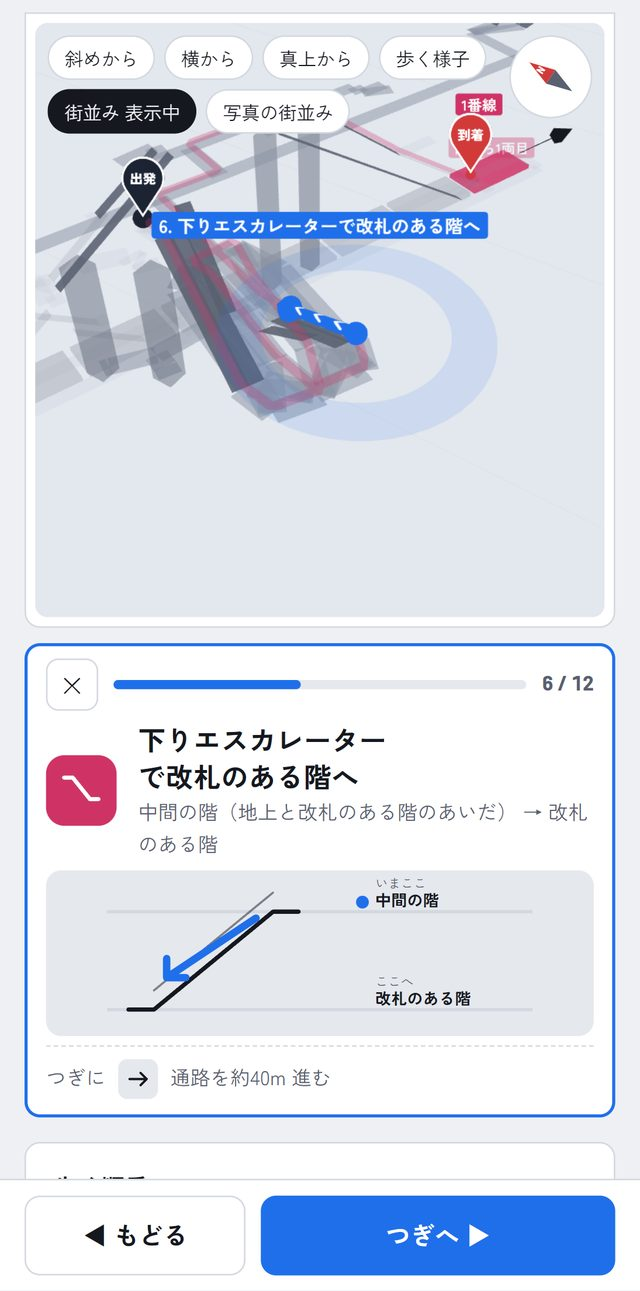
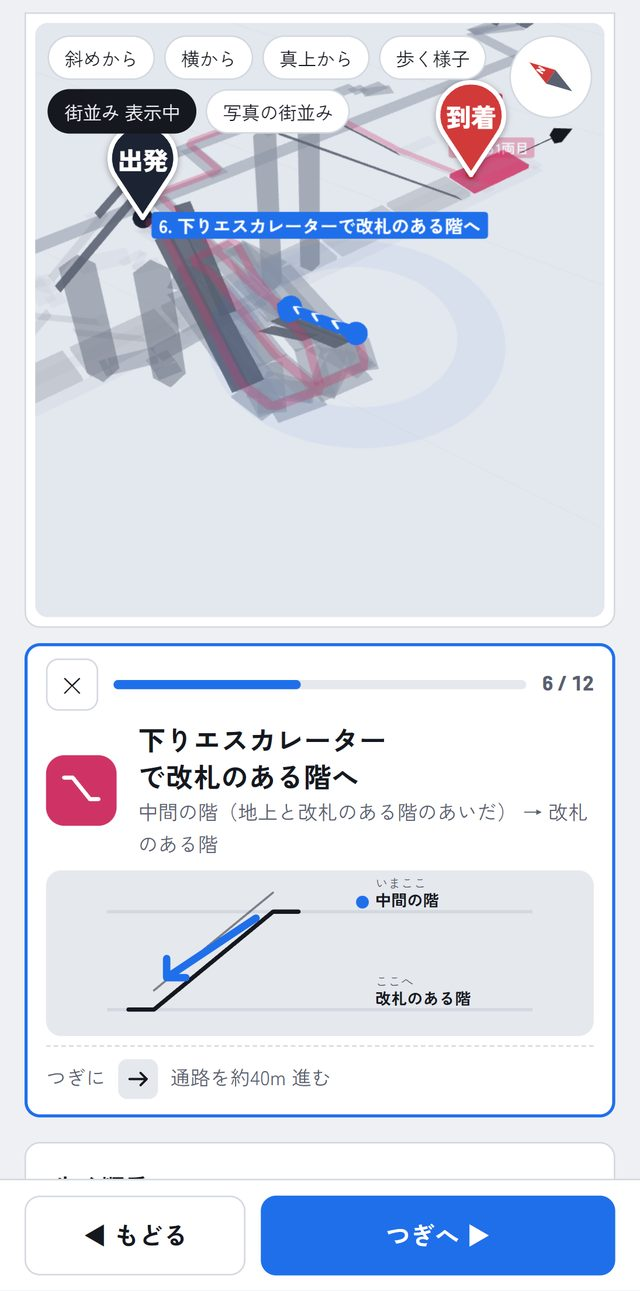
ピンを札より手前に、大きく。リアル視点ではさらに大きく

diff --git a/index.html b/index.html
@@ -146,6 +146,12 @@ select:focus-visible, button:focus-visible, input:focus-visible + span { outline
 .bname i { display: none; font-style: normal; font-size: 10px; color: var(--muted); }
 .bname.edge { opacity: .85; translate: -50% -50%; font-weight: 500; }
 .bname.edge i { display: inline-block; }
+/* 出発・到着のピン。名前の札より手前 */
+.pins { position: absolute; inset: 0; pointer-events: none; z-index: 1; overflow: hidden; }
+.pin3d { position: absolute; left: 0; top: 0; width: 52px; height: 65px; translate: -50% -97%; filter: drop-shadow(0 1px 2px rgba(0,0,0,.35)); }
+.pin3d svg { display: block; width: 100%; height: 100%; overflow: visible; }
+.pin3d text { fill: #ffffff; font-family: var(--f-body); font-weight: 900; font-size: 50px; }
+.pins.big .pin3d { width: 80px; height: 100px; }
 .cstatus { position: absolute; right: 8px; bottom: 8px; z-index: 2; font-size: 12px; padding: 4px 10px; border-radius: 999px;
   background: var(--surface); border: 1px solid var(--line); color: var(--muted); }
 .stage .fail { position: absolute; inset: 0; display: grid; place-items: center; padding: 16px; color: var(--muted); font-size: 13px; text-align: center; }
@@ -749,7 +755,7 @@ var View3D = (function () {
   var showUbld = false; // 駅によってはデータが多いので選んだときだけ読み込む
   try { showUbld = UBLD_ENABLED && localStorage.getItem('ekishirube.ubld') === '1'; } catch (e) {}
   var sel = null;       // いま選んでいる手順 { i, lo, hi, curve, ring }
-  var ripple = null, routePts = [], lastCull = 0, compass = null, lastHeading = null, names = [], nameBox = null;
+  var ripple = null, routePts = [], lastCull = 0, compass = null, lastHeading = null, names = [], nameBox = null, pins = [], pinBox = null;
   var renderer, scene, camera, controls, el, ro, started = false;
   var segTubes = [], netMeshes = [], routeTube, routeCurve, dot, edgeCum = [], edgeStep = [], total = 0;
   var home = null, platAxis = null, anim = null, play = null, onStep = null, lastFocus = null;
@@ -1508,20 +1514,23 @@ var View3D = (function () {
     return new THREE.Mesh(geo, new THREE.MeshBasicMaterial({ color: color, transparent: true, opacity: opacity, side: THREE.DoubleSide, depthWrite: false }));
   }
 
-  // 出発・到着のピン（画面上で一定の大きさ。下の先がその場所）
-  function pinSprite(text, color, px) {
-    var c = document.createElement('canvas'); c.width = 160; c.height = 200;
-    var x = c.getContext('2d');
-    function shape() { x.beginPath(); x.arc(80, 74, 66, Math.PI * 0.8, Math.PI * 0.2); x.lineTo(80, 194); x.closePath(); }
-    shape(); x.fillStyle = '#ffffff'; x.fill();
-    x.save(); x.translate(80, 80); x.scale(0.9, 0.9); x.translate(-80, -80); shape(); x.fillStyle = color; x.fill(); x.restore();
-    x.fillStyle = '#ffffff'; x.font = '900 40px "Zen Kaku Gothic New", "Hiragino Sans", "Yu Gothic", sans-serif';
-    x.textAlign = 'center'; x.textBaseline = 'middle'; x.fillText(text, 80, 76);
-    var tex = new THREE.CanvasTexture(c); tex.minFilter = THREE.LinearFilter;
-    var s = new THREE.Sprite(new THREE.SpriteMaterial({ map: tex, depthTest: false, transparent: true, sizeAttenuation: false }));
-    var hh = px / ((el && el.clientHeight) || 440) * 2 * Math.tan(THREE.MathUtils.degToRad(19));
-    s.scale.set(hh * 160 / 200, hh, 1); s.center.set(0.5, 0.02); s.renderOrder = 14;
-    return s;
+  // 出発・到着のピン（画面上で一定の大きさ。下の先がその場所）。建物の名前の札（HTML）より手前に出すため、立体図に重ねる HTML で描く
+  // （2026-10-08 利用者「ピンを札より手前に書いて」。前は立体の中の絵で、札の下に隠れていた）
+  function pinEl(text, color) {
+    var d = document.createElement('div'); d.className = 'pin3d';
+    d.innerHTML = '<svg viewBox="0 0 160 200" aria-hidden="true"><path d="M133.4 112.8 A66 66 0 1 0 26.6 112.8 L80 194 Z" fill="' + color +
+      '" stroke="#ffffff" stroke-width="9" stroke-linejoin="round"/><text x="80" y="76" text-anchor="middle" dominant-baseline="central">' + text + '</text></svg>';
+    d.setAttribute('aria-label', text);
+    return d;
+  }
+  function placePins() {
+    var W = el.clientWidth, H = el.clientHeight, v = new THREE.Vector3();
+    pinBox.classList.toggle('big', fpv); // リアル視点では大きく（2026-10-08 利用者「リアル視点で…ピンが小さく、文字が読みにくい」）
+    pins.forEach(function (n) {
+      v.copy(n.pos).project(camera);
+      n.el.hidden = v.z > 1;
+      n.el.style.transform = 'translate(' + Math.round((v.x + 1) / 2 * W) + 'px,' + Math.round((1 - v.y) / 2 * H) + 'px)';
+    });
   }
   // 人のマーク（緑の丸に白い人。画面上で一定の大きさ）
   function personSprite(color, px) {
@@ -1632,6 +1641,9 @@ var View3D = (function () {
     var oldN = el.querySelector('.bnames'); if (oldN) oldN.remove();
     nameBox = document.createElement('div'); nameBox.className = 'bnames'; el.appendChild(nameBox);
     names = [];
+    var oldP = el.querySelector('.pins'); if (oldP) oldP.remove();
+    pinBox = document.createElement('div'); pinBox.className = 'pins'; el.appendChild(pinBox); // 名前の札より後に置き、手前に出す
+    pins = [];
     el.appendChild(compass);
     lastHeading = null;
     ro.observe(el);
@@ -1865,8 +1877,8 @@ var View3D = (function () {
       var ep = pair[0], p = pair[1];
       var ball = new THREE.Mesh(new THREE.SphereGeometry(1.0, 16, 12), new THREE.MeshBasicMaterial({ color: pair[3] }));
       ball.position.copy(p); scene.add(ball);
-      var pin = pinSprite(pair[2], pair[3], 54);
-      pin.position.copy(p); pin.userData.pin = true; scene.add(pin);
+      var pin = pinEl(pair[2], pair[3]);
+      pinBox.appendChild(pin); pins.push({ pos: p.clone(), el: pin });
       if (ep.type === 'plat') {
         var pl = st.plats.filter(function (x) { return x.id === ep.id; })[0];
         var lb = label(pl.code + '番線', cOedo, '#ffffff', 18, null, 60); labels.push(lb);
@@ -2138,6 +2150,7 @@ var View3D = (function () {
     if (!fpv) controls.update();
     if (now - lastCull > 120) { lastCull = now; scene.updateMatrixWorld(); cullLabels(); }
     if (nameBox) placeNames();
+    if (pinBox) placePins();
     if (compass) {
       var hd = Math.round(headingDeg()); // 北が画面の上から時計回りに何度の所にあるか
       if (hd !== lastHeading) { lastHeading = hd; compass.firstChild.style.transform = 'rotate(' + hd + 'deg)'; }
